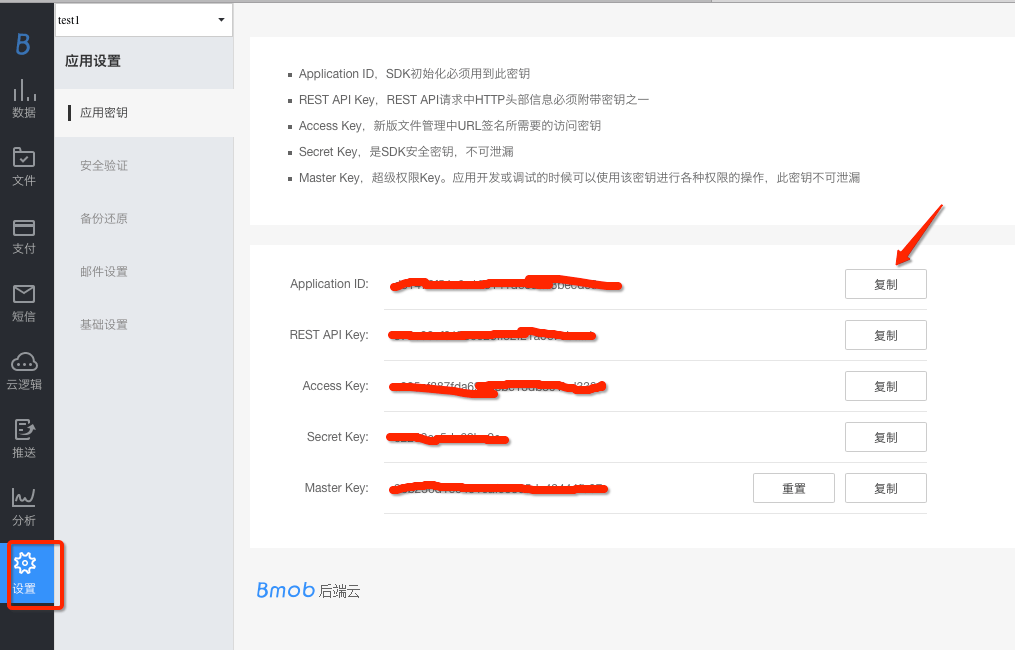
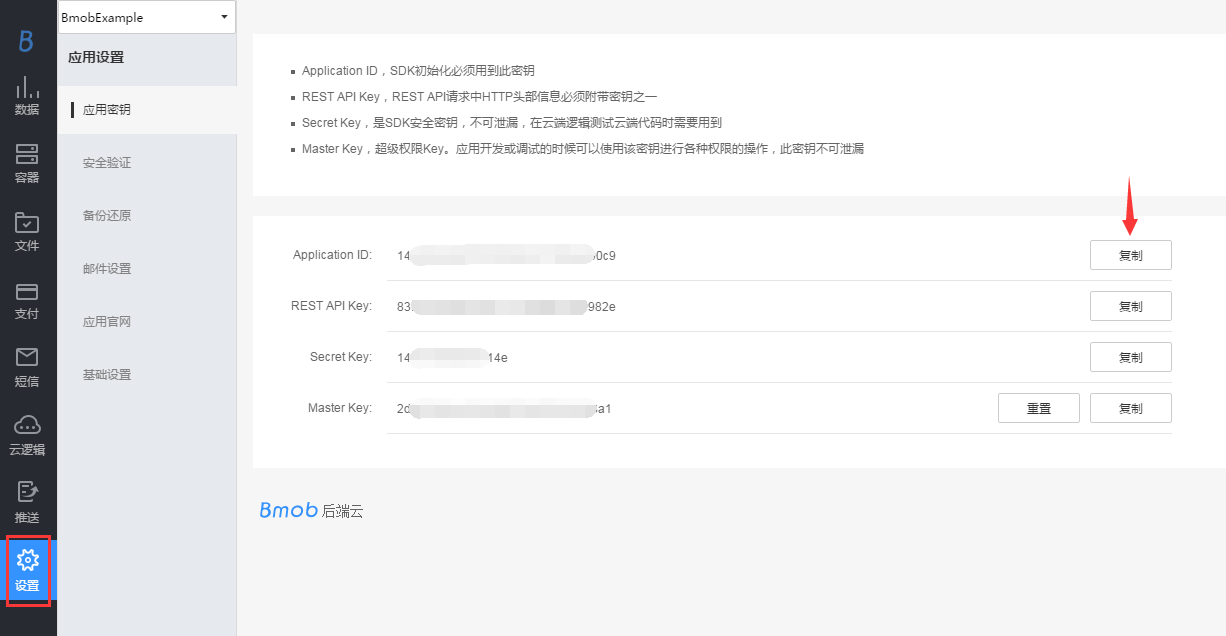
替换新版图片

diff --git a/data/iOS/a_faststart/README.md b/data/iOS/a_faststart/README.md
@@ -22,7 +22,7 @@
 
 获取Application ID后，下载SDK，开发者可以根据自己的需求选择相应的iOS SDK 或Android SDK，点击下载即可。
 
-![](image/rumen_miyue_3.png)
+![](image/xiazai.png)
 
 ## 安装BmobSDK
 
